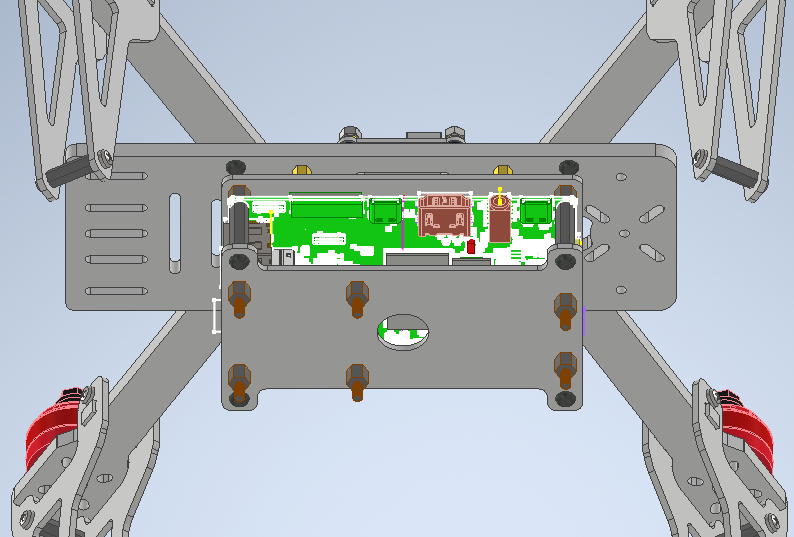
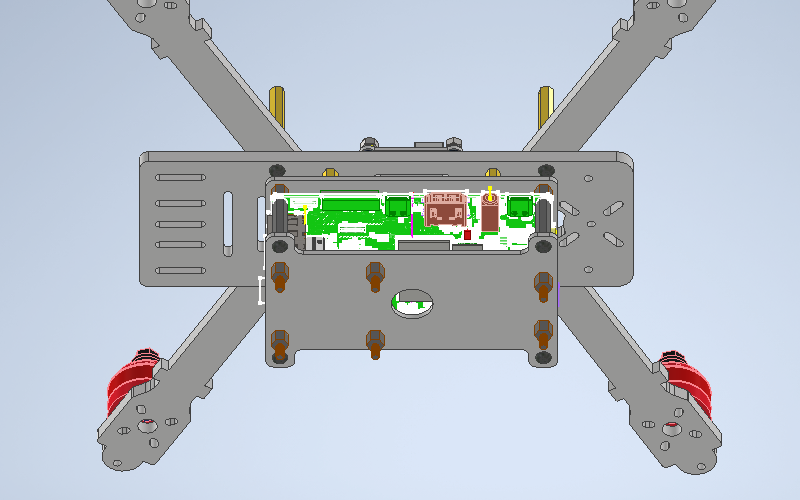
подправила сборку

diff --git a/docs/ru/assembly.md b/docs/ru/assembly.md
@@ -10,8 +10,8 @@
 -   [Установка OpticalFlow](#7)
 -   [Установка понижающего преобразователя](#8)
 -   [Установка камеры](#9)
--   [Сборка защиты](#10)
--   [Установка светодиодной ленты](#11)
+-   [Установка светодиодной ленты](#10)
+-   [Сборка защиты](#11)
 
 
 ### Перечень крепежа
@@ -19,8 +19,8 @@
 |Название|Количство (шт)|
 |--------|---------|
 |Винт M3x6| 24 |
-|Винт M3x6 (НЕX)| 10 |
-|Винт M3x8 (НЕX)| 40 |
+|Винт M3x6 (НЕX)| 14 |
+|Винт M3x8 (НЕX)| 36 |
 |Винт M3x12| 4 |
 |Винт M3x14 (НЕX)| 8 |
 |Винт M3x25| 4 |
@@ -36,7 +36,7 @@
 
 ## Сборка рамы {#1}
 
-1\. Соединяем 4 луча с центарльной декой, закрепляя их только на центральных отверстиях четрырьмя винтами M3x14 (HEX) и металлическими гайками M3.
+1\. Соединяем 4 луча с центарльной декой, на центральных отверстиях закрепляем четрырьмя винтами M3x14 (HEX) и металлическими гайками M3, на крайних отверстиях металлическими стойками 30мм, фиксируя винтами M3x14 (HEX)
 
 <img src="assets/assembly/1.png" width="800" height="500" alt="center_plate">
 
@@ -80,7 +80,7 @@
 
 <img src="assets/assembly/5.3.png" width="800" height="600" alt="5.3">
 
-4\. Устанавливаем полётный контроллер, предварительно надев на него демпферные резинки. Закрепляем нейлоновыми гайками M3
+4\. Устанавливаем полётный контроллер,  предварительно надев на него демпферные резинки. Закрепляем нейлоновыми гайками M3
 
 <img src="assets/assembly/5.4.png" width="800" height="500" alt="5.4">
 
@@ -101,7 +101,7 @@
 
 ## Установка Orange Pi 5 {#6}
 
-1\. На нижнюю платформу для Orange Pi установите нейлоновые стойки M3(5мм + 6мм) и закрепите винтами M3x8 (НЕX)
+1\. На нижнюю платформу для Orange Pi установите нейлоновые стойки M3(5мм + 6мм) и закрепите винтами M3x6 (НЕX)
 
 <img src="assets/assembly/8.1.png" width="800" height="500" alt="8.1">
 
@@ -142,20 +142,21 @@
 
 ## Установка понижающего преобразователя {#8}
 
-1\. Закрепляем понижающий преобразователь с припаянными проводами как показанно на схеме.
 
-<img src="assets/assembly/10.1.png" width="800" height="500" alt="10.1">
-
-2\. Входные провода красного и синего цвета нужно припаять на основное питание с регулятора оборотов как показано на схеме
+1\. Входные провода красного и синего цвета нужно припаять на основное питание с регулятора оборотов как показано на схеме
 
 <img src="assets/assembly/10.2.png" width="800" height="510" alt="10.2">
 
-3\. Выходные контакты с понижающего преобразователя должны быть подключены к одноплатному компьютеру как показано на схеме
+2\. Выходные контакты с понижающего преобразователя должны быть подключены к одноплатному компьютеру как показано на схеме
 
 <img src="assets/assembly/10.3.png" width="800" height="500" alt="10.3">
 
 
 <span style="color:red">*Убедитесь что контакты подключены к нужным разъёмам одноплатного компьютера!*</span>
+
+3\. Закрепляем понижающий преобразователь с припаянными проводами как показанно на схеме.
+
+<img src="assets/assembly/10.1.png" width="800" height="500" alt="10.1">
 
 
 ## Установка камеры {#9}
@@ -164,7 +165,21 @@
 
 <img src="assets/assembly/10.0.png" width="800" height="500" alt="10.0">
 
-## Сборка защиты {#10}
+## Установка светодиодной ленты {#10}
+
+1\. Клеим светодиодную ленту на обод, подключаем её к питанию +5v – 5v, земле GND – GND и сигнальному порту DIN – GPIO01-C1 как показано на схеме
+
+<img src="assets/assembly/11.1.png" width="800" height="500" alt="11.1">
+
+<img src="assets/assembly/11.2.png" width="800" height="500" alt="11.2">
+
+<span style="color:red"> Сверьтесь с [распиновкой Orange Pi](../ru/orangepi_info.md) перед подключением! <span>
+
+2\. Закрепляем обод как показано на рисунке, защёлкивая на лучах
+
+<img src="assets/assembly/10.png" width="800" height="500" alt="10">
+
+## Сборка защиты {#11}
 
 1\. Установите плату защиты на ножки дрона как показано на рисунке, используя винты M3x12 и гайку M3
 
@@ -185,17 +200,3 @@
 <img src="assets/assembly/9.3.png" width="800" height="500" alt="9.3">
 
 <img src="assets/assembly/9.5.png" width="800" height="500" alt="9.5">
-
-## Установка светодиодной ленты {#11}
-
-1\. Клеим светодиодную ленту на обод, подключаем её к питанию +5v – 5v, земле GND – GND и сигнальному порту DIN – GPIO01-C1 как показано на схеме
-
-<img src="assets/assembly/11.1.png" width="800" height="500" alt="11.1">
-
-<img src="assets/assembly/11.2.png" width="800" height="500" alt="11.2">
-
-<span style="color:red"> Сверьтесь с [распиновкой Orange Pi](../ru/orangepi_info.md) перед подключением! <span>
-
-2\. Закрепляем обод как показано на рисунке, защёлкивая на лучах
-
-<img src="assets/assembly/10.png" width="800" height="500" alt="10">
